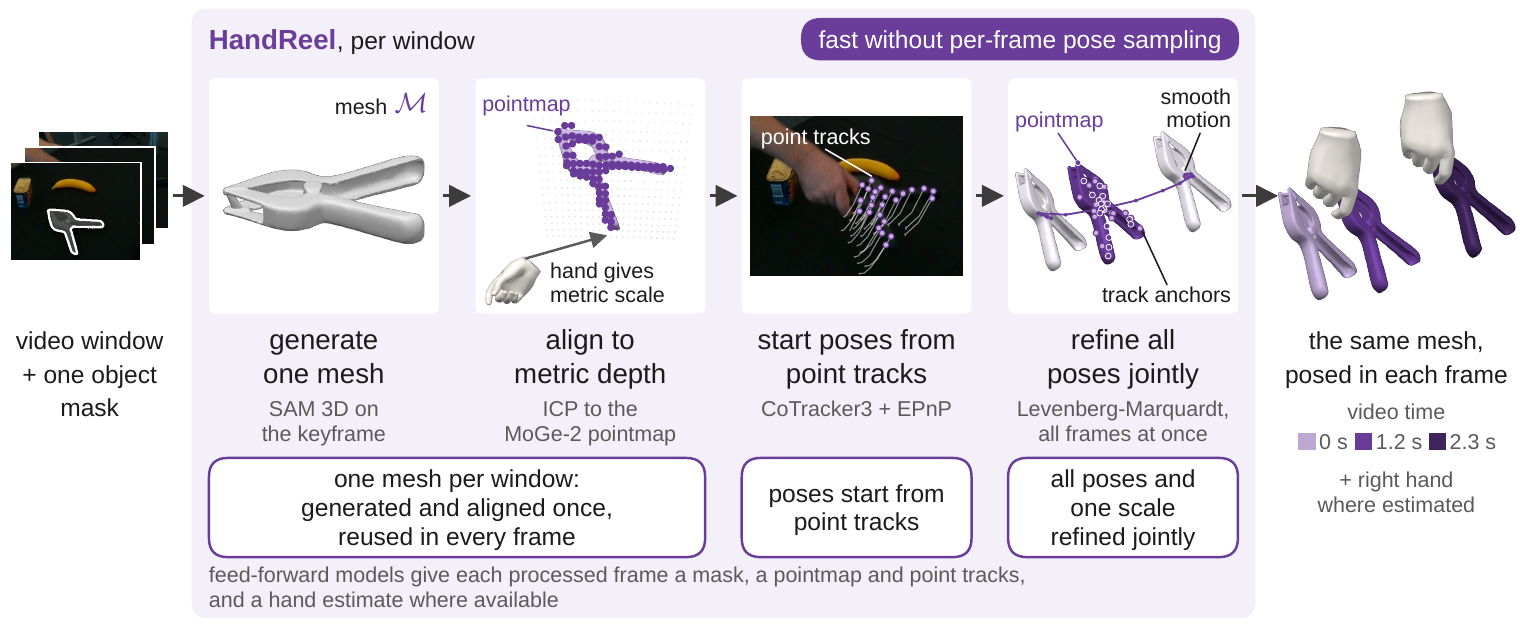
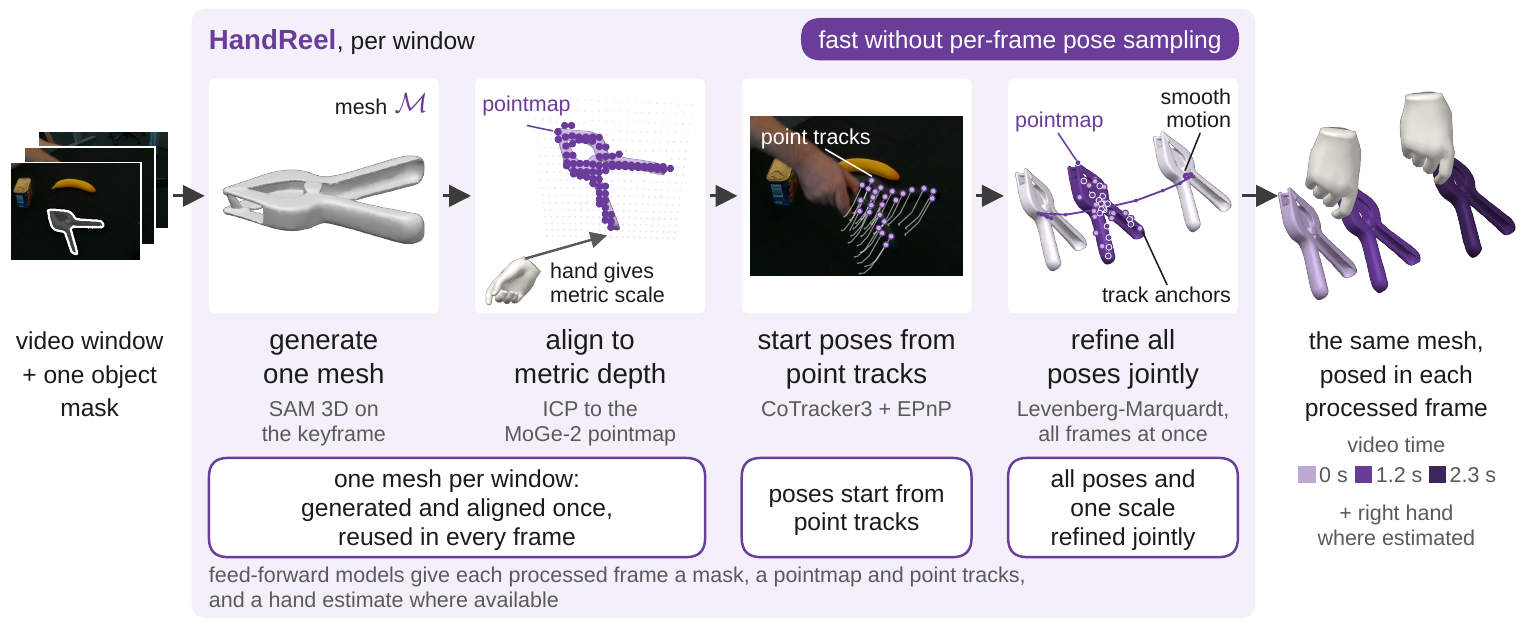
site: review fixes (Fig. 2 label, timing context, first-screen line, minors)

Changed region(s): [[0.8349, 0.5758, 0.9895, 0.8788]]

diff --git a/js/viewer.js b/js/viewer.js
@@ -1,10 +1,10 @@
 /* Embedded 3D viewer (#viewer), one clip (figure data-seq).
    Layout, both modes: page controls on top (Play/Pause, Replay, a frame slider with one step per displayed frame,
-   keyboard-operable, a text readout "frame NNN, T.TT s into the clip": the dataset's frame number and the time from the excerpt's
+   keyboard-operable, a text readout "frame NNN, T.TT s into this excerpt": the dataset's frame number and the time from the excerpt's
    first frame, which the readout names as such; no source time stamp is shown or claimed),
    then the input frame in its own panel (left; first on phones) beside the 3D. The excerpt starts by itself when the
    viewer comes into view and loops, muted (the video has no audio track): after the last frame's own duration it
-   starts again from the first frame with no added hold (the caption says "at recorded speed"), until the visitor pauses, scrubs or switches the view. With reduced motion it neither starts by
+   starts again from the first frame with no added hold, until the visitor pauses, scrubs or switches the view. With reduced motion it neither starts by
    itself nor loops. Live, the meshes are drawn in the site's palette (PAPER, from the figure's data-obj / data-hand:
    reconstructed object dark purple, reconstructed hand light lilac); the pre-rendered videos and posters are rendered
    with the same palette (pipeline/viser_fallback.py); the recordings keep the colours they were recorded with.
@@ -21,7 +21,7 @@
    range, distance limits, no panning, slower rotation), WASD/QE camera keys are blocked, Reset view restores the start
    camera without reloading (play state and time are kept). On touch screens a layer over the client lets a vertical
    swipe scroll the page, turns a one-finger horizontal swipe into orbit and a two-finger pinch into zoom (clamped).
-   Round 6: away from the start view the camera backs off so the billboard stays inside the canvas; a toggle switches
+   Away from the start view the camera backs off so the billboard stays inside the canvas; a toggle switches
    between the live 3D view and the pre-rendered video (both ways); the viewer's notes sit under the controls.
    Loading: the client is given time while its page is still arriving or its recording download makes progress (a
    status line says it is loading); a recording answered with an error status, an error page, a client whose internals
@@ -33,7 +33,7 @@
    pipeline/video_marks.py), draws that picture and shows the input frame and the read-out of the same frame in the
    same task. The browser's video clocks are not trusted for this: requestVideoFrameCallback's mediaTime ran two
    frames ahead of the picture in WebKit's Linux build and its callback one screen refresh ahead in Firefox, and
-   currentTime is coarse in Firefox (retest of 2026-11-18). Only when no mark can be read (no marks file, a decoder
+   currentTime is coarse in Firefox. Only when no mark can be read (no marks file, a decoder
    that draws nothing readable) does the page fall back to a clock: mediaTime where it agrees with currentTime, else
    currentTime, through frameAt, the one time-to-frame function of both modes. Without JS, or without the input
    index: the plain video with its own controls; the page controls and Reset view stay hidden.
@@ -54,7 +54,7 @@
    viewer, no note, no Try anyway). */
 (() => {
 const boot = () => {
-  // Round 19: sequence selector. Each example is a link "?clip=KEY#viewer" (works without JS, and from file://).
+  // Sequence selector. Each example is a link "?clip=KEY#viewer" (works without JS, and from file://).
   // The default clip's figure is #viewer; every other served clip's figure waits, hidden, in a .vx-alt holder. Before
   // anything else reads the page, the requested clip's figure takes #viewer's place, so the rest of this file drives
   // exactly one figure, as before. An unknown key leaves the default clip.
@@ -83,7 +83,7 @@ const boot = () => {
   const key = root.dataset.seq;
   const stage = root.querySelector(".vx-stage");
   const incap = root.querySelector(".vx-incap");
-  const outcap = root.querySelector(".vx-outcap");   // round 18: an HTML frame/time label under the 3D panel
+  const outcap = root.querySelector(".vx-outcap");   // an HTML frame/time label under the 3D panel
   const video = stage.querySelector("video.vx-fallback");
   const box = root.querySelector(".vx-img");
   const note = root.querySelector(".vx-note");
@@ -100,7 +100,7 @@ const boot = () => {
   const labelLive = root.querySelector(".vx-label-live");
   const subFb = root.querySelector(".vx-sub-fb");          // one-line notes under the 3D (side view / orbited view)
   const subLive = root.querySelector(".vx-sub-live");
-  // round 13: the live note ("Orbited, ...") shows only while the view is actually orbited (liveTick), never at the start view
+  // the live note ("Orbited, ...") shows only while the view is actually orbited (liveTick), never at the start view
   const setSub = (live) => { if (subFb) subFb.hidden = live; if (subLive) subLive.hidden = true; };
   const playBtn = root.querySelector(".vx-play");
   const replayBtn = root.querySelector(".vx-replay");
@@ -113,7 +113,7 @@ const boot = () => {
   const MISMATCH_MS = 8000;     // a client internal still missing this long after its playback bar appeared: refuse it
   const FIT_MARGIN = 0.05;
   // radians, distance factors; fit: away from the start view the camera backs off (distance at least
-  // start * (1 + fit * angle)) so that the input frame's billboard stays inside the canvas when orbited (round 6, B8)
+  // start * (1 + fit * angle)) so that the input frame's billboard stays inside the canvas when orbited
   const ORBIT = { az: 0.45, polar: 0.3, near: 0.6, far: 1.6, speed: 0.5, fit: 1.2 };
   const NOTES = {
     failed: "The 3D viewer could not start here, so the page shows a pre-rendered video of the same frames.",
@@ -153,7 +153,7 @@ const boot = () => {
   const label = (i) => {           // the caption strip's own numbering: dataset frame id and excerpt time
     const t = input.frames[i].t.toFixed(2);
     const id = String(input.frames[i].frame).padStart(3, "0");
-    return { text: `frame ${id}, ${t} s into the clip`, aria: `input frame ${id}, ${t} seconds into the clip` };
+    return { text: `frame ${id}, ${t} s into this excerpt`, aria: `input frame ${id}, ${t} seconds into this excerpt` };
   };
   const paintInput = (i) => {
     if (!input) return;
@@ -186,7 +186,7 @@ const boot = () => {
 
   /* ---- players: one interface for the client and the video ---- */
   let player = null;   // {time(), playing(), play(), pause(), seek(t)}
-  let carry = null;    // round 12: the frame index the Video / 3D view switch keeps (null: start at the first frame)
+  let carry = null;    // the frame index the Video / 3D view switch keeps (null: start at the first frame)
   let carryPlay = false;   // ... and whether the excerpt was playing: the new view goes on playing from that frame
   // Taken when the visitor switches the view. While an earlier switch is still loading (its frame not yet applied),
   // that frame and play state are kept: the view that never came up has no frame of its own.
@@ -265,7 +265,7 @@ const boot = () => {
     syncButtons();
   };
   root.addEventListener("keydown", onSpace);
-  // round 19 (WEB-R8J-COLD): Space toggles playback only while focus is inside the viewer; elsewhere it scrolls the page.
+  // Space toggles playback only while focus is inside the viewer; elsewhere it scrolls the page.
   root.tabIndex = -1;
 
   // Start playing (and looping) when the viewer first comes into view (not with reduced motion).
@@ -501,7 +501,7 @@ const boot = () => {
   // A pause settles on the frame that is on screen: the page seeks to that frame's middle (also when currentTime is
   // already there, so that a seek and its repaint always follow), which makes the video present exactly it. After a
   // pause, a seek or the end the page keeps painting for a moment (lively), because the decoder can deliver the
-  // seeked picture a few screen refreshes after the event (round-4 trace review m1).
+  // seeked picture a few screen refreshes after the event.
   let lively = 0;
   const settleLater = () => { lively = performance.now() + 700; };
   ["pause", "ended"].forEach((ev) => video.addEventListener(ev, () => {
@@ -770,7 +770,7 @@ const boot = () => {
       ctx.mutable.current.requestRender();
     }, { capture: true, passive: false });
     // middle-button drag dollies through the page, clamped before the next draw like Ctrl + wheel: the client's own
-    // drag dolly eased past the distance limit for a few frames before the per-frame clamp caught it (round-4 m2)
+    // drag dolly eased past the distance limit for a few frames before the per-frame clamp caught it
     let dragY = null;
     const dolly = (dy) => {
       const lim = live.limits;
@@ -840,7 +840,7 @@ const boot = () => {
     opacityBtn.disabled = false;
     root.classList.add("vx-drawn");
     player.pause();
-    player.seek(mid(carry !== null ? carry : 0));   // round 12: Video -> 3D view keeps the frame
+    player.seek(mid(carry !== null ? carry : 0));   // Video -> 3D view keeps the frame
     // ... and goes on playing if the excerpt was playing (the client settles on the frame first, as at autoplay);
     // loopTimer is set meanwhile, so the button reads "Pause" and a pause or a scrub cancels it
     if (carry !== null && carryPlay && !reduced) {
@@ -1176,28 +1176,26 @@ const boot = () => {
       start(); playBtn.focus();
     });
   }
-  tryBtn.addEventListener("click", () => {   // round 17: keeps the shown frame, like the Video / 3D view switch
+  tryBtn.addEventListener("click", () => {   // keeps the shown frame, like the Video / 3D view switch
     if (offline || liveOff) return;
     started = true;
     handOver();
     start(); playBtn.focus();
   });
-  // round 12: below 600 px the input frame is a small inset in the stage (compare without scrolling); the same element,
+  // below 600 px the input frame is a small inset in the stage (compare without scrolling); the same element,
   // so its frame stays in sync; moved back into the grid on wider screens
   const vin = root.querySelector(".vx-in");
   const vgrid = root.querySelector(".vx-grid");
   const phone = window.matchMedia("(max-width: 599px)");
   const placeInput = () => {
     if (!vin || !vgrid) return;
-    // round 14: below the stage, not over it (it covered the "camera view" label and part of the 3D)
-    // round 16: above the stage, so in the pre-rendered video it sits right next to the camera view (below, it was
-    // ~1,000 px away under the side view)
+    // above the stage, not over it, so in the pre-rendered video it sits right next to the camera view
     if (phone.matches) { if (vin.nextElementSibling !== stage) stage.before(vin); root.classList.add("in-inset"); }
     else if (vin.parentElement !== vgrid) { vgrid.insertBefore(vin, vgrid.firstChild); root.classList.remove("in-inset"); }
   };
   placeInput();
   phone.addEventListener("change", placeInput);
-  // round 19 (lead E): on phones (<= 760 px) Play, Replay and the slider sit above the 3D panel (CSS order); the
+  // on phones (<= 760 px) Play, Replay and the slider sit above the 3D panel (CSS order); the
   // readout and the secondary toggles move to a second row under the stage, so the stage still starts on the first
   // screen. They move back on wider screens.
   const phoneCtl = window.matchMedia("(max-width: 760px)");

diff --git a/index.html b/index.html
@@ -12,7 +12,7 @@
 <meta property="og:title" content="HandReel: Fast Hand-Object Reconstruction from Video without Per-Frame Pose Sampling">
 <meta property="og:description" content="For each window of a monocular video, HandReel outputs one object mesh, its pose in every processed frame and the right hand where the hand estimator returns one.">
 <link rel="icon" href="favicon.svg" type="image/svg+xml">
-<link rel="stylesheet" href="css/site.css?v=f9dc3e0ede">
+<link rel="stylesheet" href="css/site.css?v=73de60394b">
 
 <script src="js/viewer.js"></script>
 </head>
@@ -24,7 +24,8 @@
     <h1>HandReel: Fast Hand-Object Reconstruction from Video without Per-Frame Pose Sampling</h1>
     <p class="authors"><span class="au"><a href="https://shichen.world/">Shi Chen</a><sup>1,2</sup>,</span><span class="au"><a href="https://ichnow.ski/">Jeffrey Ichnowski</a><sup>1</sup></span></p>
     <p class="affil"><span class="af"><sup>1</sup><a href="https://www.ri.cmu.edu/">Robotics Institute, Carnegie Mellon University</a>,</span><span class="af"><sup>2</sup><a href="https://intuition.dev/">Intuition</a></span></p>
-    <p class="links"><a class="lbtn" href="#" aria-disabled="true" title="The arXiv link is coming soon"><svg viewBox="0 0 24 24" aria-hidden="true"><path d="M3.8423 0a1.0037 1.0037 0 0 0-.922.6078c-.1536.3687-.0438.6275.2938 1.1113l6.9185 8.3597-1.0223 1.1058a1.0393 1.0393 0 0 0 .003 1.4229l1.2292 1.3135-5.4391 6.4444c-.2803.299-.4538.823-.2971 1.1986a1.0253 1.0253 0 0 0 .9585.635.9133.9133 0 0 0 .6891-.3405l5.783-6.126 7.4902 8.0051a.8527.8527 0 0 0 .6835.2597.9575.9575 0 0 0 .8777-.6138c.1577-.377-.017-.7502-.306-1.1407l-7.0518-8.3418 1.0632-1.13a.9626.9626 0 0 0 .0089-1.3165L4.6336.4639s-.3733-.4535-.768-.463zm0 .272h.0166c.2179.0052.4874.2715.5644.3639l.005.006.0052.0055 10.169 10.9905a.6915.6915 0 0 1-.0072.945l-1.0666 1.133-1.4982-1.7724-8.5994-10.39c-.3286-.472-.352-.6183-.2592-.841a.7307.7307 0 0 1 .6704-.4401Zm14.341 1.5701a.877.877 0 0 0-.6554.2418l-5.6962 6.1584 1.6944 1.8319 5.3089-6.5138c.3251-.4335.479-.6603.3247-1.0292a1.1205 1.1205 0 0 0-.9763-.689zm-7.6557 12.2823 1.3186 1.4135-5.7864 6.1295a.6494.6494 0 0 1-.4959.26.7516.7516 0 0 1-.706-.4669c-.1119-.2682.0359-.6864.2442-.9083l.0051-.0055.0047-.0055z"/></svg>arXiv (coming soon)</a> <a class="lbtn" href="https://github.com/BillyChern/HandReel"><svg viewBox="0 0 24 24" aria-hidden="true"><path d="M12 .297c-6.63 0-12 5.373-12 12 0 5.303 3.438 9.8 8.205 11.385.6.113.82-.258.82-.577 0-.285-.01-1.04-.015-2.04-3.338.724-4.042-1.61-4.042-1.61C4.422 18.07 3.633 17.7 3.633 17.7c-1.087-.744.084-.729.084-.729 1.205.084 1.838 1.236 1.838 1.236 1.07 1.835 2.809 1.305 3.495.998.108-.776.417-1.305.76-1.605-2.665-.3-5.466-1.332-5.466-5.93 0-1.31.465-2.38 1.235-3.22-.135-.303-.54-1.523.105-3.176 0 0 1.005-.322 3.3 1.23.96-.267 1.98-.399 3-.405 1.02.006 2.04.138 3 .405 2.28-1.552 3.285-1.23 3.285-1.23.645 1.653.24 2.873.12 3.176.765.84 1.23 1.91 1.23 3.22 0 4.61-2.805 5.625-5.475 5.92.42.36.81 1.096.81 2.22 0 1.606-.015 2.896-.015 3.286 0 .315.21.69.825.57C20.565 22.092 24 17.592 24 12.297c0-6.627-5.373-12-12-12"/></svg>Code</a></p>
+    <p class="links"><span class="lbtn" role="link" aria-disabled="true" title="The arXiv link is coming soon"><svg viewBox="0 0 24 24" aria-hidden="true"><path d="M3.8423 0a1.0037 1.0037 0 0 0-.922.6078c-.1536.3687-.0438.6275.2938 1.1113l6.9185 8.3597-1.0223 1.1058a1.0393 1.0393 0 0 0 .003 1.4229l1.2292 1.3135-5.4391 6.4444c-.2803.299-.4538.823-.2971 1.1986a1.0253 1.0253 0 0 0 .9585.635.9133.9133 0 0 0 .6891-.3405l5.783-6.126 7.4902 8.0051a.8527.8527 0 0 0 .6835.2597.9575.9575 0 0 0 .8777-.6138c.1577-.377-.017-.7502-.306-1.1407l-7.0518-8.3418 1.0632-1.13a.9626.9626 0 0 0 .0089-1.3165L4.6336.4639s-.3733-.4535-.768-.463zm0 .272h.0166c.2179.0052.4874.2715.5644.3639l.005.006.0052.0055 10.169 10.9905a.6915.6915 0 0 1-.0072.945l-1.0666 1.133-1.4982-1.7724-8.5994-10.39c-.3286-.472-.352-.6183-.2592-.841a.7307.7307 0 0 1 .6704-.4401Zm14.341 1.5701a.877.877 0 0 0-.6554.2418l-5.6962 6.1584 1.6944 1.8319 5.3089-6.5138c.3251-.4335.479-.6603.3247-1.0292a1.1205 1.1205 0 0 0-.9763-.689zm-7.6557 12.2823 1.3186 1.4135-5.7864 6.1295a.6494.6494 0 0 1-.4959.26.7516.7516 0 0 1-.706-.4669c-.1119-.2682.0359-.6864.2442-.9083l.0051-.0055.0047-.0055z"/></svg>arXiv (coming soon)</span> <a class="lbtn" href="https://github.com/BillyChern/HandReel"><svg viewBox="0 0 24 24" aria-hidden="true"><path d="M12 .297c-6.63 0-12 5.373-12 12 0 5.303 3.438 9.8 8.205 11.385.6.113.82-.258.82-.577 0-.285-.01-1.04-.015-2.04-3.338.724-4.042-1.61-4.042-1.61C4.422 18.07 3.633 17.7 3.633 17.7c-1.087-.744.084-.729.084-.729 1.205.084 1.838 1.236 1.838 1.236 1.07 1.835 2.809 1.305 3.495.998.108-.776.417-1.305.76-1.605-2.665-.3-5.466-1.332-5.466-5.93 0-1.31.465-2.38 1.235-3.22-.135-.303-.54-1.523.105-3.176 0 0 1.005-.322 3.3 1.23.96-.267 1.98-.399 3-.405 1.02.006 2.04.138 3 .405 2.28-1.552 3.285-1.23 3.285-1.23.645 1.653.24 2.873.12 3.176.765.84 1.23 1.91 1.23 3.22 0 4.61-2.805 5.625-5.475 5.92.42.36.81 1.096.81 2.22 0 1.606-.015 2.896-.015 3.286 0 .315.21.69.825.57C20.565 22.092 24 17.592 24 12.297c0-6.627-5.373-12-12-12"/></svg>Code</a></p>
+    <p class="tagline">HandReel turns a video of a hand moving an object into one 3D mesh of the object and its position and rotation over time. On 20 Ego4D windows, one at a time, <a href="https://arxiv.org/abs/2606.19333">DO AS I DO</a>'s reconstruction stage took about 30&times; as long as HandReel, and HandReel's held-out object-centre error was within a preset margin.</p>
   </div>
 
   <div class="wrap hero-viewer">
@@ -34,7 +35,7 @@
         <button type="button" class="btn vx-play">Play</button>
         <button type="button" class="btn vx-replay">Replay</button>
         <input class="vx-seek" type="range" min="0" max="11" step="1" value="0" aria-label="Frame">
-        <span class="vx-readout" data-numreg="generated">frame 036, 0.00 s into the clip</span>
+        <span class="vx-readout" data-numreg="generated">frame 036, 0.00 s into this excerpt</span>
         <button type="button" class="btn vx-opacity" aria-pressed="false" hidden>See-through meshes</button>
         <button type="button" class="btn vx-reset" hidden>Reset view</button>
         <button type="button" class="btn vx-mode" hidden>Pre-rendered video</button>
@@ -60,14 +61,11 @@
           </div>
         </div>
       </div>
-      <figcaption class="vx-cap">HandReel's 3D reconstruction of a DexYCB clip from the development set: the object and the hand. The viewer plays every third frame of the video at real-time speed. We marked the object in the first frame with the dataset's mask.</figcaption>
+      <figcaption class="vx-cap">An excerpt of a DexYCB clip from the development set: HandReel's object mesh and HaWoR's hand. The viewer plays every third frame of the video at real-time speed. We marked the object with the dataset's mask in the clip's first frame, before this excerpt.</figcaption>
     </figure>
 
   </div>
 
-  <div class="wrap hero-text">
-    <p class="tagline">HandReel turns a video of a hand moving an object into one 3D mesh of the object and its position and rotation over time.</p>
-  </div>
 </header>
 
 <section class="block" id="abstract">
@@ -115,7 +113,7 @@
 <text x="86" y="72" text-anchor="end" class="pl-lab">HandReel</text>
 <rect x="96" y="56" width="15.7" height="22" class="pl-bar-ours"/>
 <text x="119.7" y="72" class="pl-val">66 s</text>
-<text x="0" y="108" class="pl-group">Baseline restarts for every window (9 windows)</text>
+<text x="0" y="108" class="pl-group">Baseline restarts for every window (9 of 19 attempted windows that both completed)</text>
 <text x="86" y="136" text-anchor="end" class="pl-lab">Baseline</text>
 <rect x="96" y="120" width="500.0" height="22" class="pl-bar-them"/>
 <text x="604.0" y="136" class="pl-val">2,100 s</text>
@@ -123,7 +121,7 @@
 <rect x="96" y="148" width="4.0" height="22" class="pl-bar-ours"/>
 <text x="108.0" y="164" class="pl-val">17 s per-window share</text>
 </svg>
-<svg class="plot plot-narrow" viewBox="0 0 300 230" role="img" aria-labelledby="time-plot-n">
+<svg class="plot plot-narrow" viewBox="0 0 300 248" role="img" aria-labelledby="time-plot-n">
 <title id="time-plot-n">Reconstruction time per Ego4D window, in seconds, as bars for the baseline (DO AS I DO's reconstruction stage) and for HandReel: both one window at a time; and the baseline restarting for every window against HandReel's per-window share of batched runs.</title>
 <text x="0" y="14" class="pl-group">One window at a time (20 windows)</text>
 <text x="0" y="34" class="pl-lab">Baseline</text>
@@ -133,13 +131,14 @@
 <rect x="0" y="80" width="7.0" height="18" class="pl-bar-ours"/>
 <text x="13.0" y="94" class="pl-val">66 s</text>
 <text x="0" y="120" class="pl-group">Baseline restarts for every window</text>
-<text x="0" y="138" class="pl-group">(9 windows)</text>
-<text x="0" y="158" class="pl-lab">Baseline</text>
-<rect x="0" y="164" width="222.0" height="18" class="pl-bar-them"/>
-<text x="228.0" y="178" class="pl-val">2,100 s</text>
-<text x="0" y="198" class="pl-lab">HandReel</text>
-<rect x="0" y="204" width="2.0" height="18" class="pl-bar-ours"/>
-<text x="8.0" y="218" class="pl-val">17 s per-window share</text>
+<text x="0" y="138" class="pl-group">(9 of 19 attempted windows</text>
+<text x="0" y="156" class="pl-group">that both completed)</text>
+<text x="0" y="176" class="pl-lab">Baseline</text>
+<rect x="0" y="182" width="222.0" height="18" class="pl-bar-them"/>
+<text x="228.0" y="196" class="pl-val">2,100 s</text>
+<text x="0" y="216" class="pl-lab">HandReel</text>
+<rect x="0" y="222" width="2.0" height="18" class="pl-bar-ours"/>
+<text x="8.0" y="236" class="pl-val">17 s per-window share</text>
 </svg>
 
       <figcaption>Seconds per Ego4D window on one H100 GPU. Ego4D has no ground-truth object poses, so it measures speed only. The paper gives the full protocol.</figcaption>
@@ -150,7 +149,7 @@
 <section class="block" id="applications">
   <div class="wrap narrow">
     <h2>Applications</h2>
-    <p>DO AS I DO is a pipeline that turns a video of a person handling an object into a robot motion, and reconstruction is its first stage. With HandReel in that stage, DO AS I DO's full pipeline would take about 3&times; as long per window with its own reconstruction as with HandReel's. We added up stage times that we measured separately and did not time a full run. When one retargeting policy serves many videos, every video still pays for reconstruction.</p>
+    <p>DO AS I DO turns a video of a person handling an object into a robot motion, and reconstruction is its first stage. By stage times that we measured separately on Ego4D, its full pipeline would take about 3&times; as long per window with its own reconstruction as with HandReel's: 2,100 + 75 + 894 = 3,069 s against 17 + 80 + 894 = 991 s. The 2,100 s is DO AS I DO restarting for every window, the 17 s is HandReel's per-window share of batched runs, the 894 s of physics was measured at 2 perturbation samples (default 4), and we did not time a full run. When one retargeting policy serves many videos, every video still pays for reconstruction.</p>
   </div>
 </section>
 

diff --git a/css/site.css b/css/site.css
@@ -41,7 +41,7 @@ h1 { font: 600 clamp(30px, 2.65vw, 38px)/1.16 var(--sans); letter-spacing: -0.01
 .authors { margin: 12px 0 0; font-size: 20px; line-height: 1.4; color: var(--ink-2); }
 .links { display: flex; flex-wrap: wrap; justify-content: center; gap: 8px; margin: 16px 0 0; }
 .lbtn { display: inline-flex; align-items: center; height: 40px; padding: 0 18px; border-radius: 999px; background: var(--pill); color: #fff; font: 500 15px/1 var(--sans); cursor: default; white-space: nowrap; }
-.authors a { color: hsl(204, 86%, 53%); text-decoration: none; }
+.authors a { color: hsl(204, 86%, 38%); text-decoration: none; }   
 .authors a:hover, .affil a:hover { text-decoration: underline; }
 .authors .au, .affil .af { display: inline-block; margin: 0 5px; }
 .authors sup, .affil sup { font-size: 0.7em; }
@@ -51,8 +51,8 @@ a.lbtn { text-decoration: none; cursor: pointer; }
 a.lbtn:hover { background: #292929; }
 .lbtn svg { width: 17px; height: 17px; margin-right: 8px; fill: currentColor; flex: none; }
 a.lbtn, a.lbtn:hover, a.lbtn:focus { text-decoration: none; color: #fff; }
-.tagline { margin: 10px auto 0; max-width: 46em; font: 500 18px/1.45 var(--sans); color: var(--ink); }
-.vx { margin: 16px 0 0; outline: none; }
+.tagline { margin: 10px auto 0; max-width: 46em; font: 400 18px/1.45 var(--sans); color: var(--ink); }   
+.vx { margin: 8px 0 0; outline: none; }
 .btn { font: 500 14px/1 var(--sans); border: 1px solid var(--rule-2); background: var(--page); color: var(--ink-2); border-radius: 999px; min-height: 32px; padding: 0 13px; cursor: pointer; }
 .btn:hover { border-color: var(--ours); color: var(--ours); }
 .btn[hidden] { display: none; }
